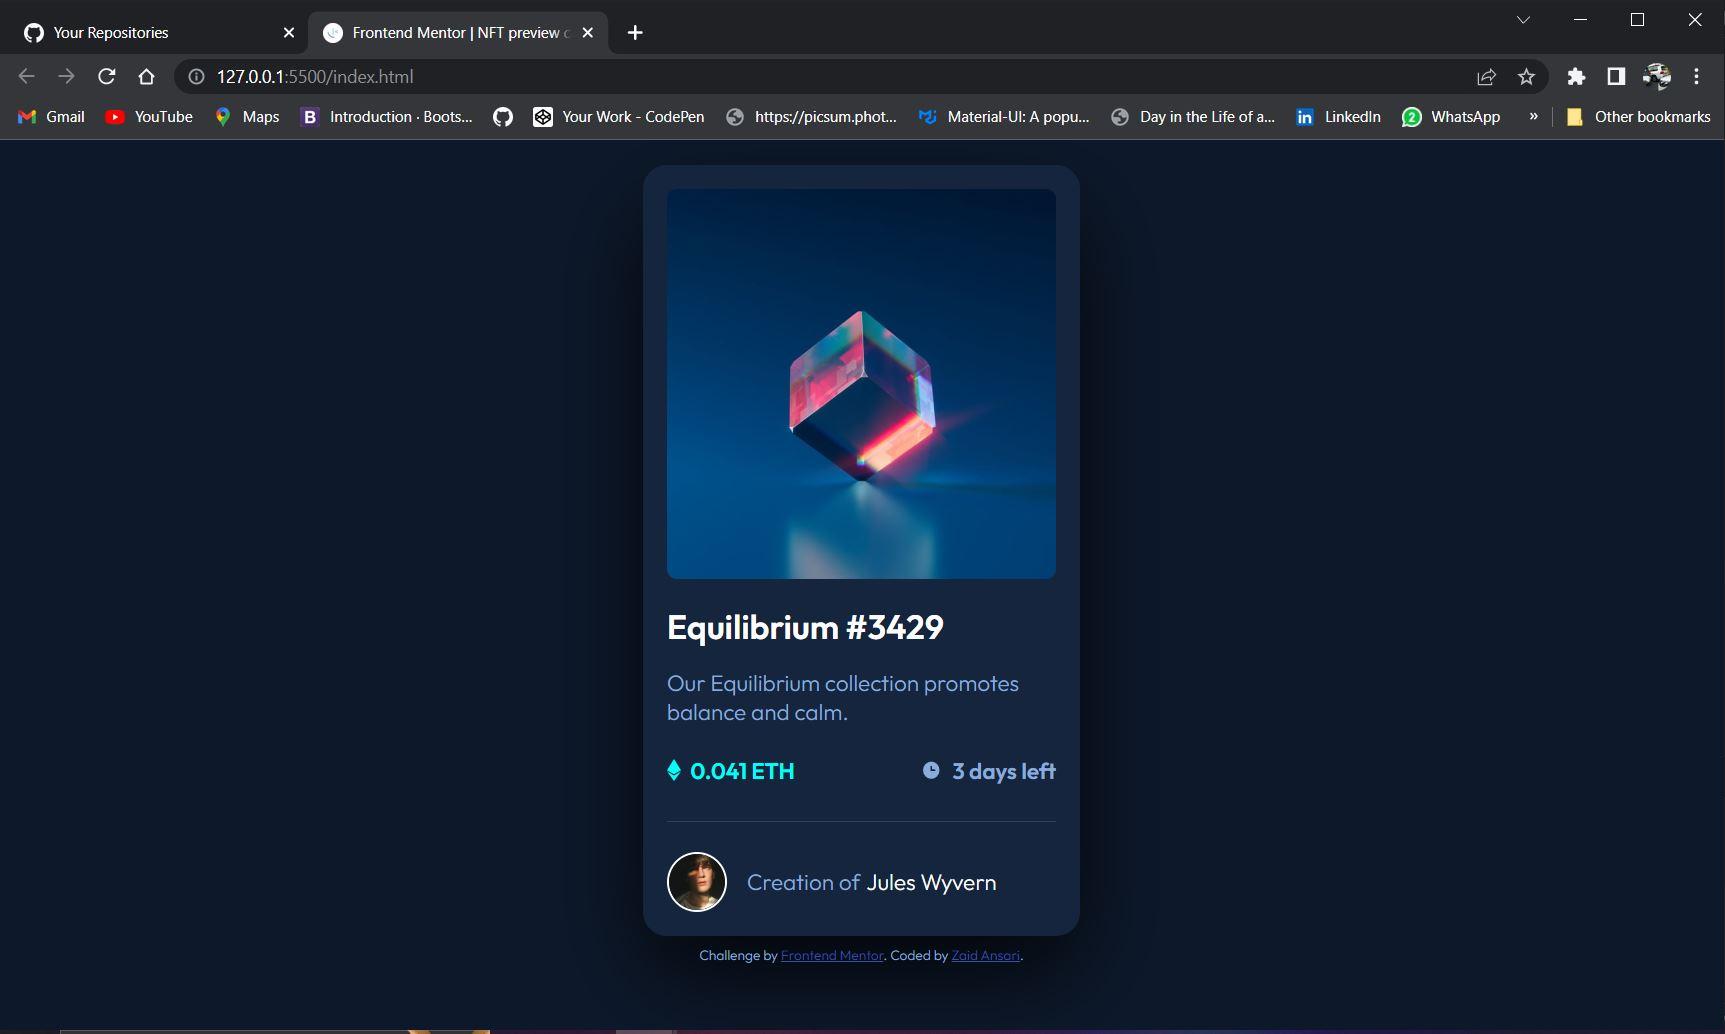
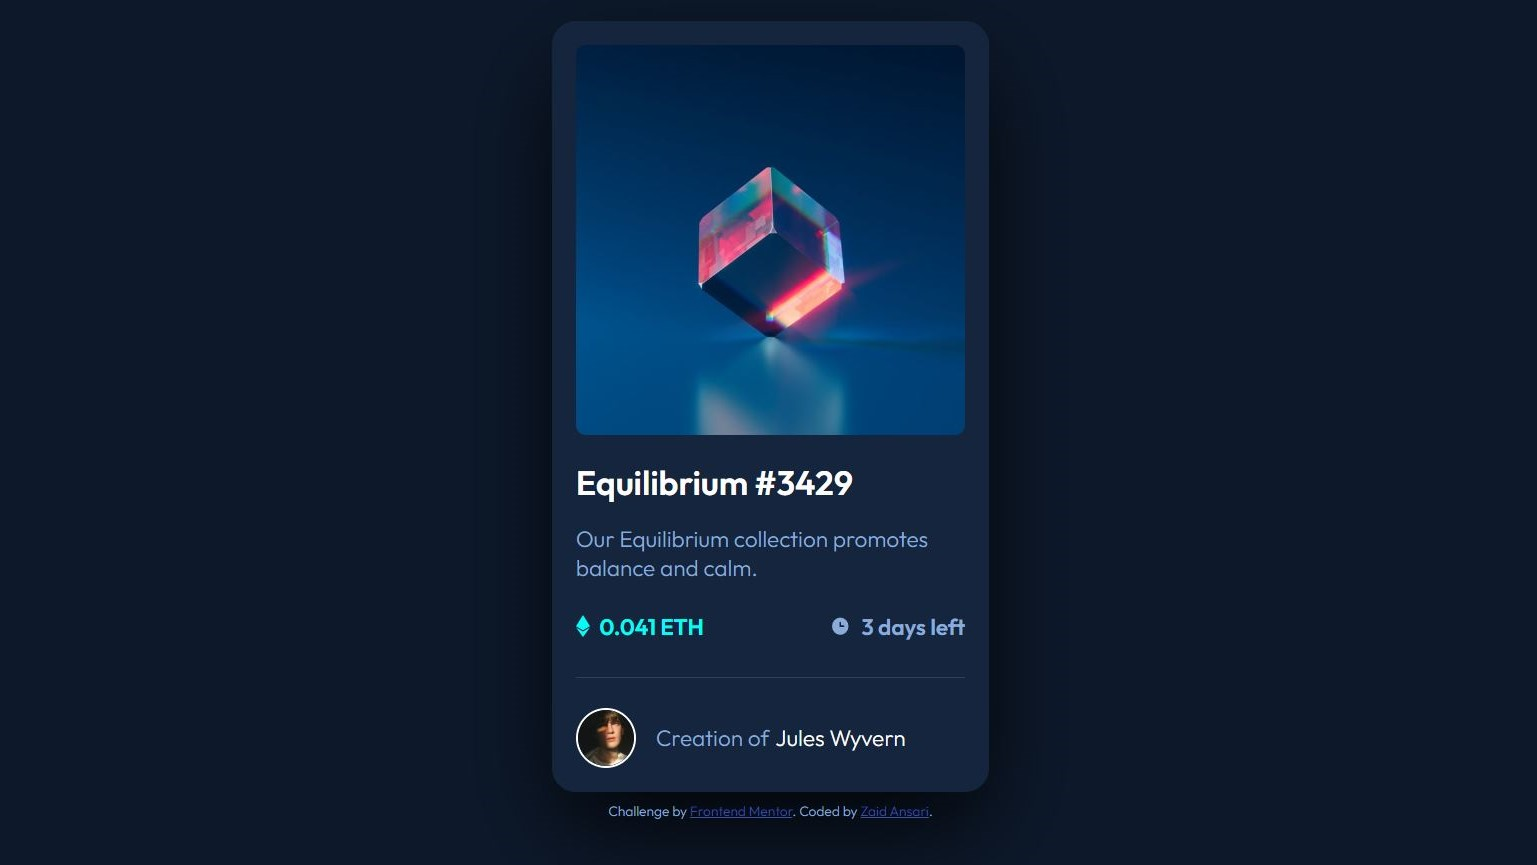
Solving the acessibility issue

Changed region(s): [[0.0, 0.0, 0.9993, 1.0], [0.9993, 0.9676, 1.0, 0.9988], [0.9993, 0.0, 1.0, 0.0312]]

diff --git a/index.html b/index.html
@@ -21,7 +21,7 @@
         </div>
       </section>
       <section>
-        <h2>Equilibrium #3429</h2>
+        <h1>Equilibrium #3429</h1>
         <p>Our Equilibrium collection promotes balance and calm.</p>
         <section class="list">
           <ul>
@@ -41,12 +41,12 @@
         Creation of<span>Jules Wyvern</span>
       </footer>
     </main>
-    <div class="attribution">
+    <footer class="attribution">
       Challenge by
       <a href="https://www.frontendmentor.io?ref=challenge" target="_blank"
         >Frontend Mentor</a
       >. Coded by
       <a href="https://github.com/zaidansari42" target="_blank">Zaid Ansari</a>.
-    </div>
+    </footer>
   </body>
 </html>

diff --git a/styles.css b/styles.css
@@ -45,7 +45,7 @@ body {
   box-shadow: 0 2rem 5rem rgba(0, 0, 0, 0.8);
 }
 
-section h2 {
+section h1 {
   color: white;
   font-weight: 600;
   margin: 1rem 0;
@@ -91,7 +91,7 @@ footer span {
   color: var(--White);
   margin-left: 5px;
 }
-h2:hover,
+h1:hover,
 footer span:hover {
   color: var(--Cyan);
   cursor: pointer;
